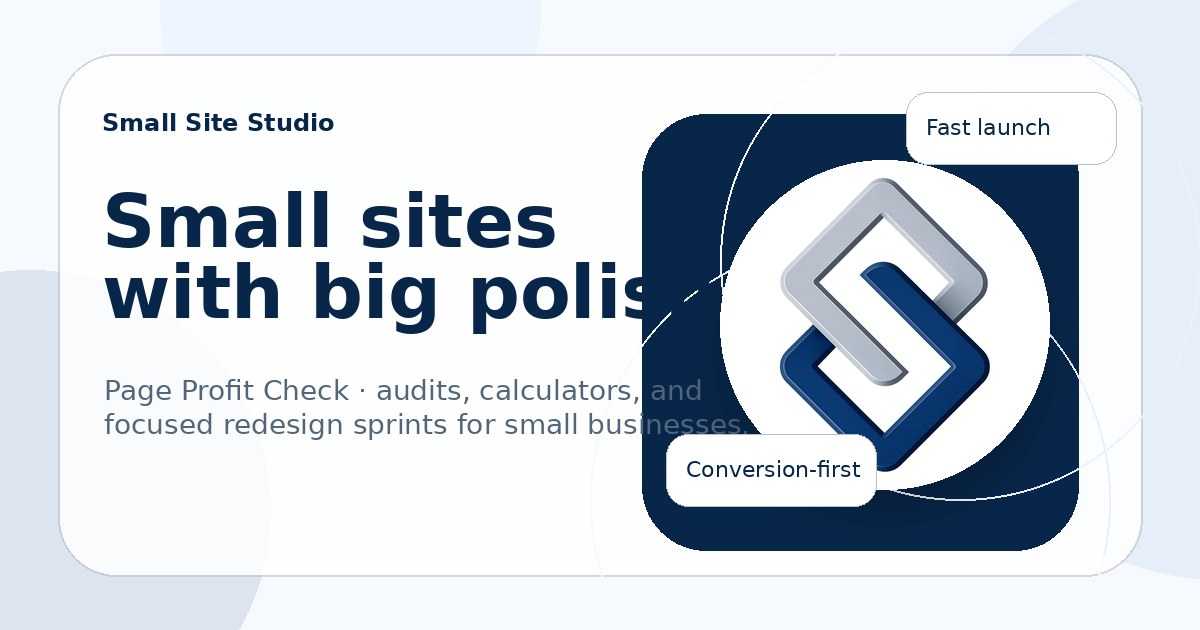
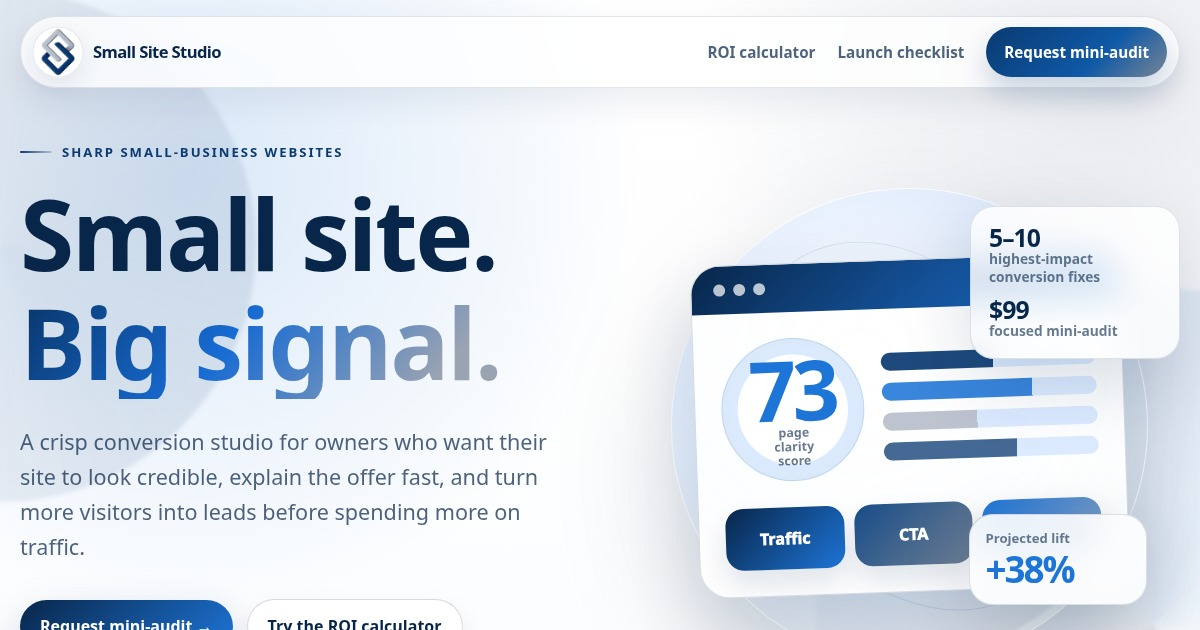
Move theme picker to footer and refresh social preview

diff --git a/checklist.html b/checklist.html
@@ -10,8 +10,8 @@
   <meta property="og:title" content="Small Business Website Launch Checklist | Page Profit Check" />
   <meta property="og:description" content="A practical preflight checklist for launching a trustworthy small business website." />
   <meta property="og:url" content="https://smallsitestudio.com/checklist" />
-  <meta property="og:image" content="https://smallsitestudio.com/assets/social-preview.png" />
-  <meta property="og:image:secure_url" content="https://smallsitestudio.com/assets/social-preview.png" />
+  <meta property="og:image" content="https://smallsitestudio.com/assets/social-preview.png?v=20260501-footer-themes" />
+  <meta property="og:image:secure_url" content="https://smallsitestudio.com/assets/social-preview.png?v=20260501-footer-themes" />
   <meta property="og:image:type" content="image/png" />
   <meta property="og:image:width" content="1200" />
   <meta property="og:image:height" content="630" />
@@ -19,14 +19,14 @@
   <meta name="twitter:card" content="summary_large_image" />
   <meta name="twitter:title" content="Small Business Website Launch Checklist | Page Profit Check" />
   <meta name="twitter:description" content="A practical preflight checklist for launching a trustworthy small business website." />
-  <meta name="twitter:image" content="https://smallsitestudio.com/assets/social-preview.png" />
+  <meta name="twitter:image" content="https://smallsitestudio.com/assets/social-preview.png?v=20260501-footer-themes" />
   <link rel="icon" href="favicon.ico?v=20260501-transparent" sizes="any" />
   <link rel="icon" type="image/png" href="assets/favicon.png?v=20260501-transparent" />
   <link rel="apple-touch-icon" href="assets/favicon.png?v=20260501-transparent" />
   <link rel="canonical" href="https://smallsitestudio.com/checklist" />
 
 
-  <link rel="stylesheet" href="styles.css?v=20260501-color-themes" />
+  <link rel="stylesheet" href="styles.css?v=20260501-footer-themes" />
 
 
 </head>
@@ -47,16 +47,6 @@
     <div class="eyebrow">Small Site Studio <span>•</span> launch smarter, fix less later</div>
     <h1><span class="headline-line">Launch without</span><br><span class="headline-line gradient-word">the ugly surprises.</span></h1>
     <p class="lede">A bold preflight checklist for the unglamorous details that make a small business site feel trustworthy, work on launch day, and keep generating leads after the designer disappears.</p>
-    <fieldset class="theme-picker" aria-label="Preview color theme">
-      <input type="radio" name="theme" id="theme-classic" value="classic" checked>
-      <label for="theme-classic">Classic</label>
-      <input type="radio" name="theme" id="theme-sunset" value="sunset">
-      <label for="theme-sunset">Sunset</label>
-      <input type="radio" name="theme" id="theme-lagoon" value="lagoon">
-      <label for="theme-lagoon">Lagoon</label>
-      <input type="radio" name="theme" id="theme-orchid" value="orchid">
-      <label for="theme-orchid">Orchid</label>
-    </fieldset>
     <div class="disclosure"><strong class="disclosure-label">Affiliate disclosure:</strong> This page may include affiliate links. If you buy through those links, we may earn a commission at no extra cost to you. Recommendations are chosen for usefulness, not payout.</div>
   </header>
 
@@ -279,7 +269,22 @@
   </section>
 
   <footer class="wrap">
-    <p>This checklist is educational and operational, not legal advice. If your site handles payments, regulated data, or industry-specific compliance, get a qualified professional review.</p>
+    <div class="footer-topline">
+      <p>This checklist is educational and operational, not legal advice. If your site handles payments, regulated data, or industry-specific compliance, get a qualified professional review.</p>
+      <div class="footer-theme">
+        <span class="theme-label">Preview palette</span>
+    <fieldset class="theme-picker" aria-label="Preview color theme">
+      <input type="radio" name="theme" id="theme-classic" value="classic" checked>
+      <label for="theme-classic">Classic</label>
+      <input type="radio" name="theme" id="theme-sunset" value="sunset">
+      <label for="theme-sunset">Sunset</label>
+      <input type="radio" name="theme" id="theme-lagoon" value="lagoon">
+      <label for="theme-lagoon">Lagoon</label>
+      <input type="radio" name="theme" id="theme-orchid" value="orchid">
+      <label for="theme-orchid">Orchid</label>
+    </fieldset>
+      </div>
+    </div>
   </footer>
 </body>
 </html>

diff --git a/index.html b/index.html
@@ -10,8 +10,8 @@
   <meta property="og:title" content="Page Profit Check | Landing Page ROI Calculator" />
   <meta property="og:description" content="Estimate how much revenue a better landing page could unlock before you spend more on traffic." />
   <meta property="og:url" content="https://smallsitestudio.com/" />
-  <meta property="og:image" content="https://smallsitestudio.com/assets/social-preview.png" />
-  <meta property="og:image:secure_url" content="https://smallsitestudio.com/assets/social-preview.png" />
+  <meta property="og:image" content="https://smallsitestudio.com/assets/social-preview.png?v=20260501-footer-themes" />
+  <meta property="og:image:secure_url" content="https://smallsitestudio.com/assets/social-preview.png?v=20260501-footer-themes" />
   <meta property="og:image:type" content="image/png" />
   <meta property="og:image:width" content="1200" />
   <meta property="og:image:height" content="630" />
@@ -19,14 +19,14 @@
   <meta name="twitter:card" content="summary_large_image" />
   <meta name="twitter:title" content="Page Profit Check | Landing Page ROI Calculator" />
   <meta name="twitter:description" content="Estimate how much revenue a better landing page could unlock before you spend more on traffic." />
-  <meta name="twitter:image" content="https://smallsitestudio.com/assets/social-preview.png" />
+  <meta name="twitter:image" content="https://smallsitestudio.com/assets/social-preview.png?v=20260501-footer-themes" />
   <link rel="icon" href="favicon.ico?v=20260501-transparent" sizes="any" />
   <link rel="icon" type="image/png" href="assets/favicon.png?v=20260501-transparent" />
   <link rel="apple-touch-icon" href="assets/favicon.png?v=20260501-transparent" />
   <link rel="canonical" href="https://smallsitestudio.com/" />
 
 
-  <link rel="stylesheet" href="styles.css?v=20260501-color-themes" />
+  <link rel="stylesheet" href="styles.css?v=20260501-footer-themes" />
 
 
 
@@ -79,16 +79,6 @@
           <span>Local-business focused</span>
           <span>Clear CTAs</span>
         </div>
-        <fieldset class="theme-picker" aria-label="Preview color theme">
-          <input type="radio" name="theme" id="theme-classic" value="classic" checked>
-          <label for="theme-classic">Classic</label>
-          <input type="radio" name="theme" id="theme-sunset" value="sunset">
-          <label for="theme-sunset">Sunset</label>
-          <input type="radio" name="theme" id="theme-lagoon" value="lagoon">
-          <label for="theme-lagoon">Lagoon</label>
-          <input type="radio" name="theme" id="theme-orchid" value="orchid">
-          <label for="theme-orchid">Orchid</label>
-        </fieldset>
       </div>
       <aside class="hero-card" aria-label="Landing page audit preview">
         <div class="audit-visual" aria-hidden="true">
@@ -255,7 +245,22 @@
   </main>
 
   <footer class="wrap">
-    <p>Small Site Studio • Page Profit Check. Note: This calculator is an estimate for planning. Actual results depend on traffic quality, offer strength, sales process, and measurement accuracy.</p>
+    <div class="footer-topline">
+      <p>Small Site Studio • Page Profit Check. Note: This calculator is an estimate for planning. Actual results depend on traffic quality, offer strength, sales process, and measurement accuracy.</p>
+      <div class="footer-theme">
+        <span class="theme-label">Preview palette</span>
+        <fieldset class="theme-picker" aria-label="Preview color theme">
+          <input type="radio" name="theme" id="theme-classic" value="classic" checked>
+          <label for="theme-classic">Classic</label>
+          <input type="radio" name="theme" id="theme-sunset" value="sunset">
+          <label for="theme-sunset">Sunset</label>
+          <input type="radio" name="theme" id="theme-lagoon" value="lagoon">
+          <label for="theme-lagoon">Lagoon</label>
+          <input type="radio" name="theme" id="theme-orchid" value="orchid">
+          <label for="theme-orchid">Orchid</label>
+        </fieldset>
+      </div>
+    </div>
   </footer>
 
   <script>

diff --git a/styles.css b/styles.css
@@ -204,7 +204,7 @@
       display:flex;
       flex-wrap:wrap;
       gap:10px;
-      margin:22px 0 0;
+      margin:0;
       padding:8px;
       width:max-content;
       max-width:100%;
@@ -257,6 +257,26 @@
     .theme-picker label[for="theme-sunset"] { --swatch:linear-gradient(135deg,#8a2452,#f25a3c,#ffd166); }
     .theme-picker label[for="theme-lagoon"] { --swatch:linear-gradient(135deg,#07343d,#00a7a5,#8ff3c9); }
     .theme-picker label[for="theme-orchid"] { --swatch:linear-gradient(135deg,#24133f,#a855f7,#f0abfc); }
+    .footer-topline {
+      display:flex;
+      align-items:flex-start;
+      justify-content:space-between;
+      gap:24px;
+      flex-wrap:wrap;
+    }
+    .footer-topline p { max-width:760px; }
+    .footer-theme {
+      display:grid;
+      gap:8px;
+      justify-items:end;
+    }
+    .theme-label {
+      color:var(--muted);
+      font-size:.76rem;
+      font-weight:950;
+      letter-spacing:.12em;
+      text-transform:uppercase;
+    }
     header.wrap { position:relative; padding:0 0 62px; min-height:auto; overflow:visible; }
     header.wrap::before, header.wrap::after { content:none; }
     .hero-grid { display:grid; grid-template-columns:1.02fr .98fr; gap:56px; align-items:center; width:100%; padding-top:28px; }
@@ -543,6 +563,7 @@
     }
     @media (max-width:760px) {
       .wrap { width:min(100% - 28px,1180px); }
+      .footer-topline, .footer-theme { display:grid; justify-items:start; }
       .theme-picker { width:100%; border-radius:26px; }
       .theme-picker label { flex:1 1 calc(50% - 8px); justify-content:center; }
       .navlinks a, .nav-links a, .button { width:100%; }